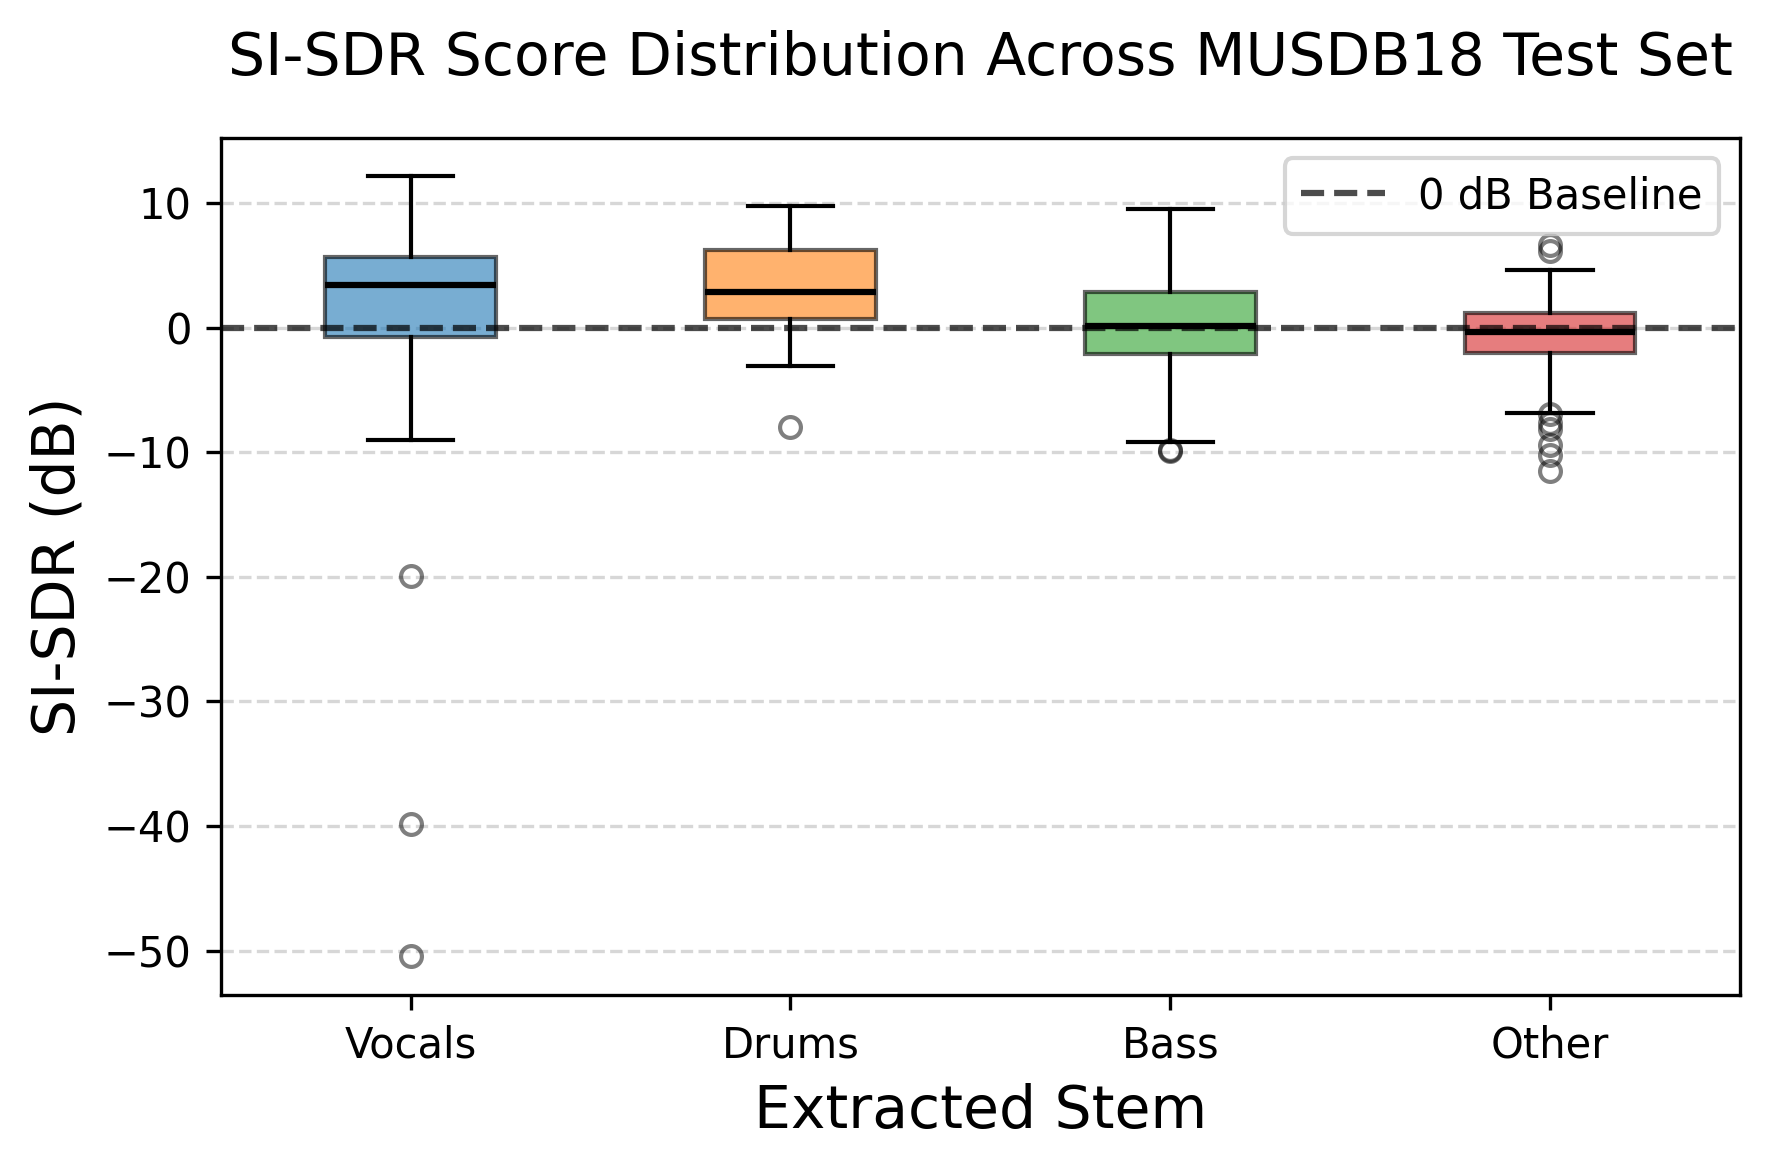
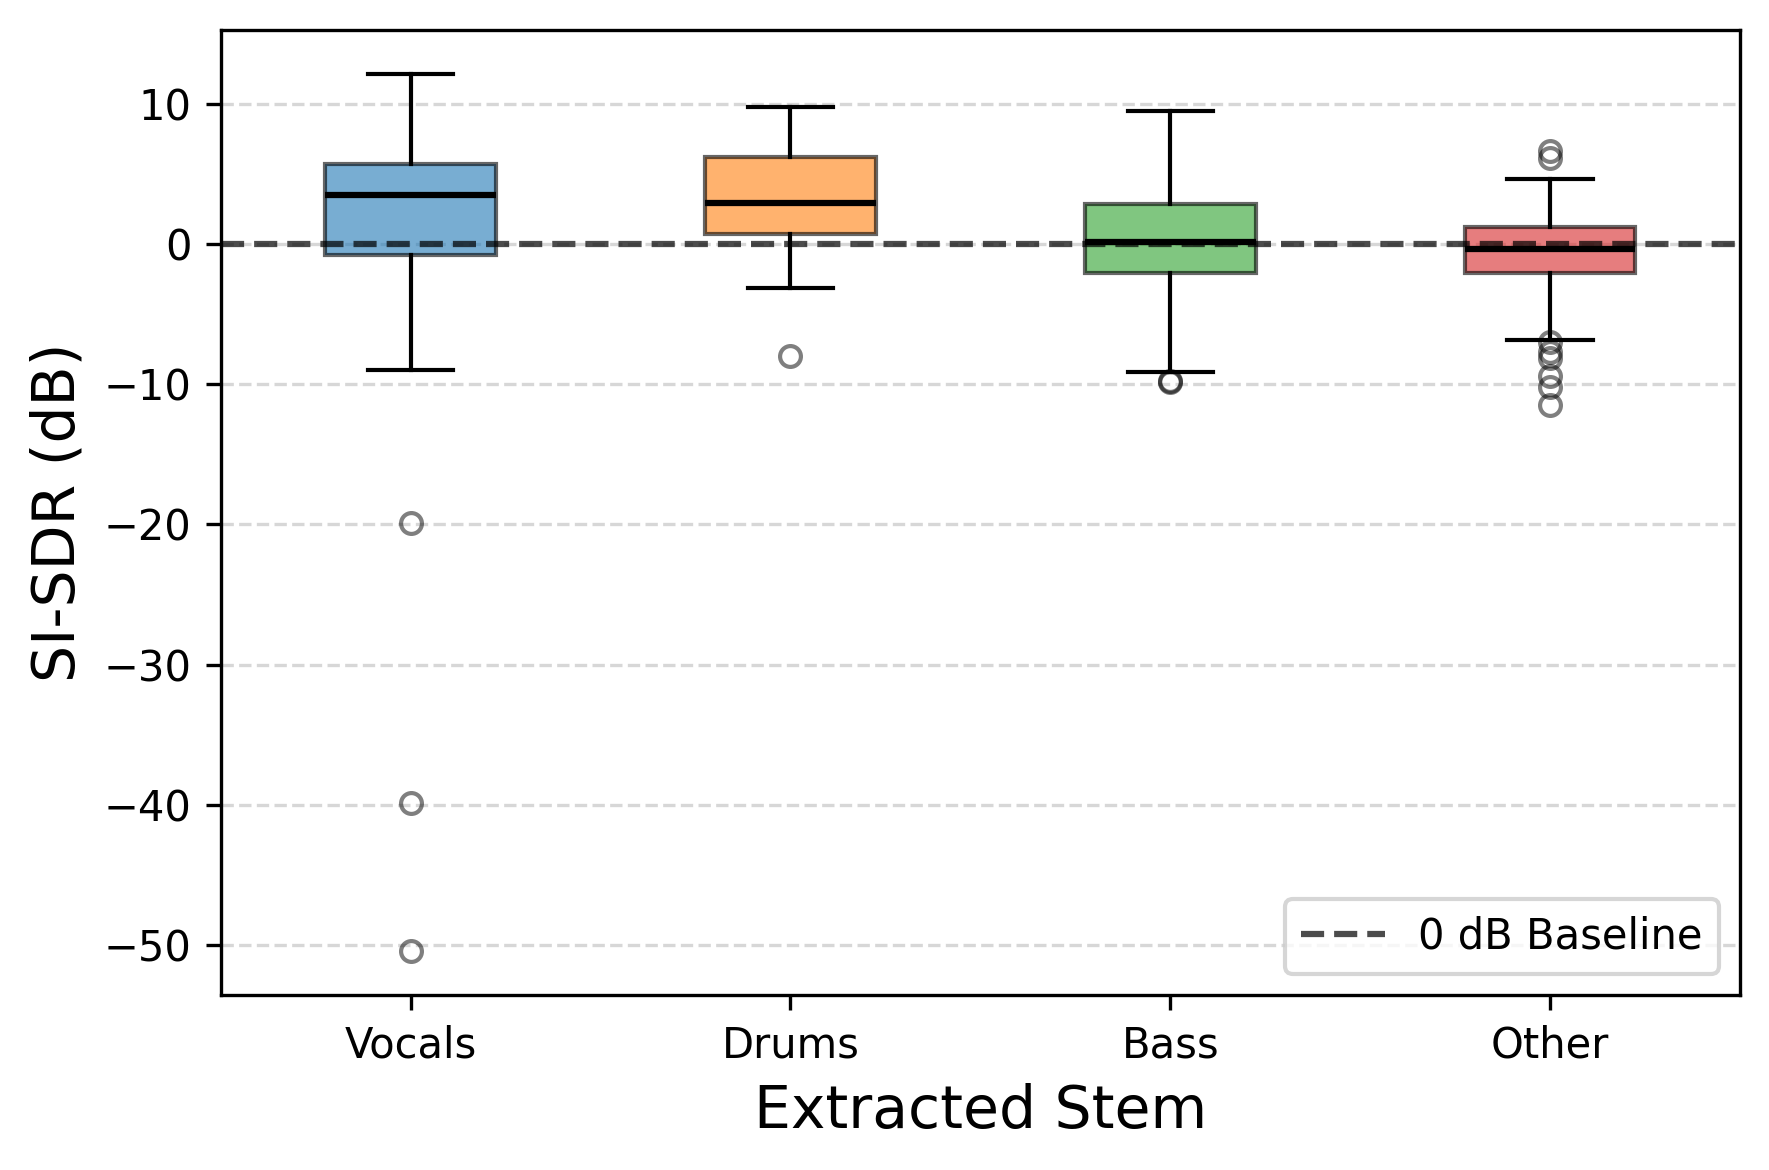
update readme

diff --git a/ml_pipeline/evaluate_test_set.py b/ml_pipeline/evaluate_test_set.py
@@ -166,12 +166,12 @@ def plot_si_sdr_distributions(all_scores, output_img="si_sdr_boxplot.png"):
     # 0 dB means target and noise are equal volume
     plt.axhline(0, color='black', linestyle='--', linewidth=1.5, alpha=0.7, label='0 dB Baseline')
     
-    plt.title('SI-SDR Score Distribution Across MUSDB18 Test Set', fontsize=14, pad=15)
+    # plt.title('SI-SDR Score Distribution Across MUSDB18 Test Set', fontsize=14, pad=15)
     plt.ylabel('SI-SDR (dB)', fontsize=14)
     plt.xlabel('Extracted Stem', fontsize=14)
     
     plt.grid(axis='y', linestyle='--', alpha=0.5)
-    plt.legend(loc='upper right')
+    plt.legend(loc='lower right')
     plt.tight_layout()
     
     plt.savefig(out_path, dpi=300, bbox_inches='tight')
